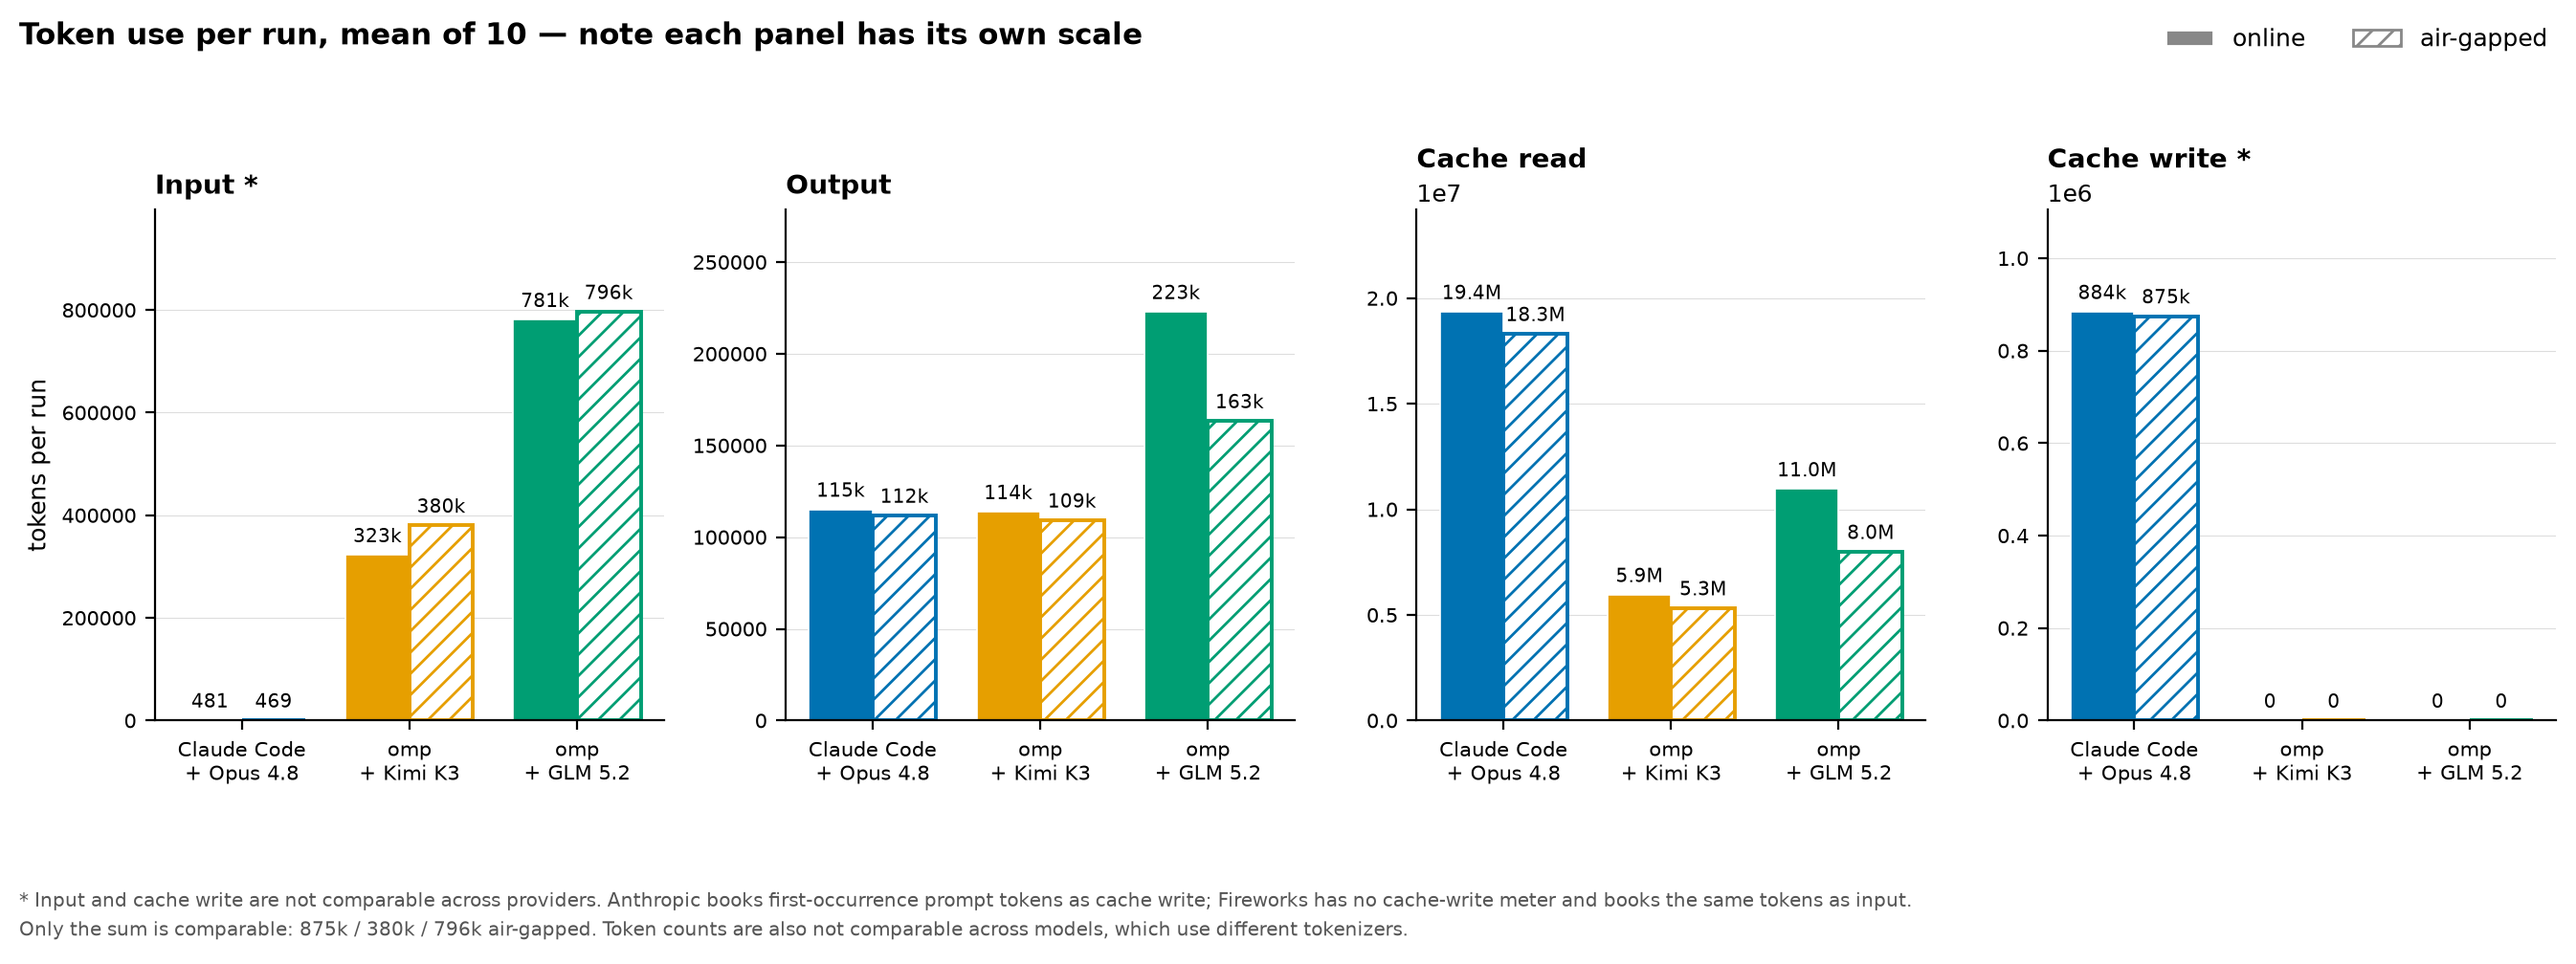
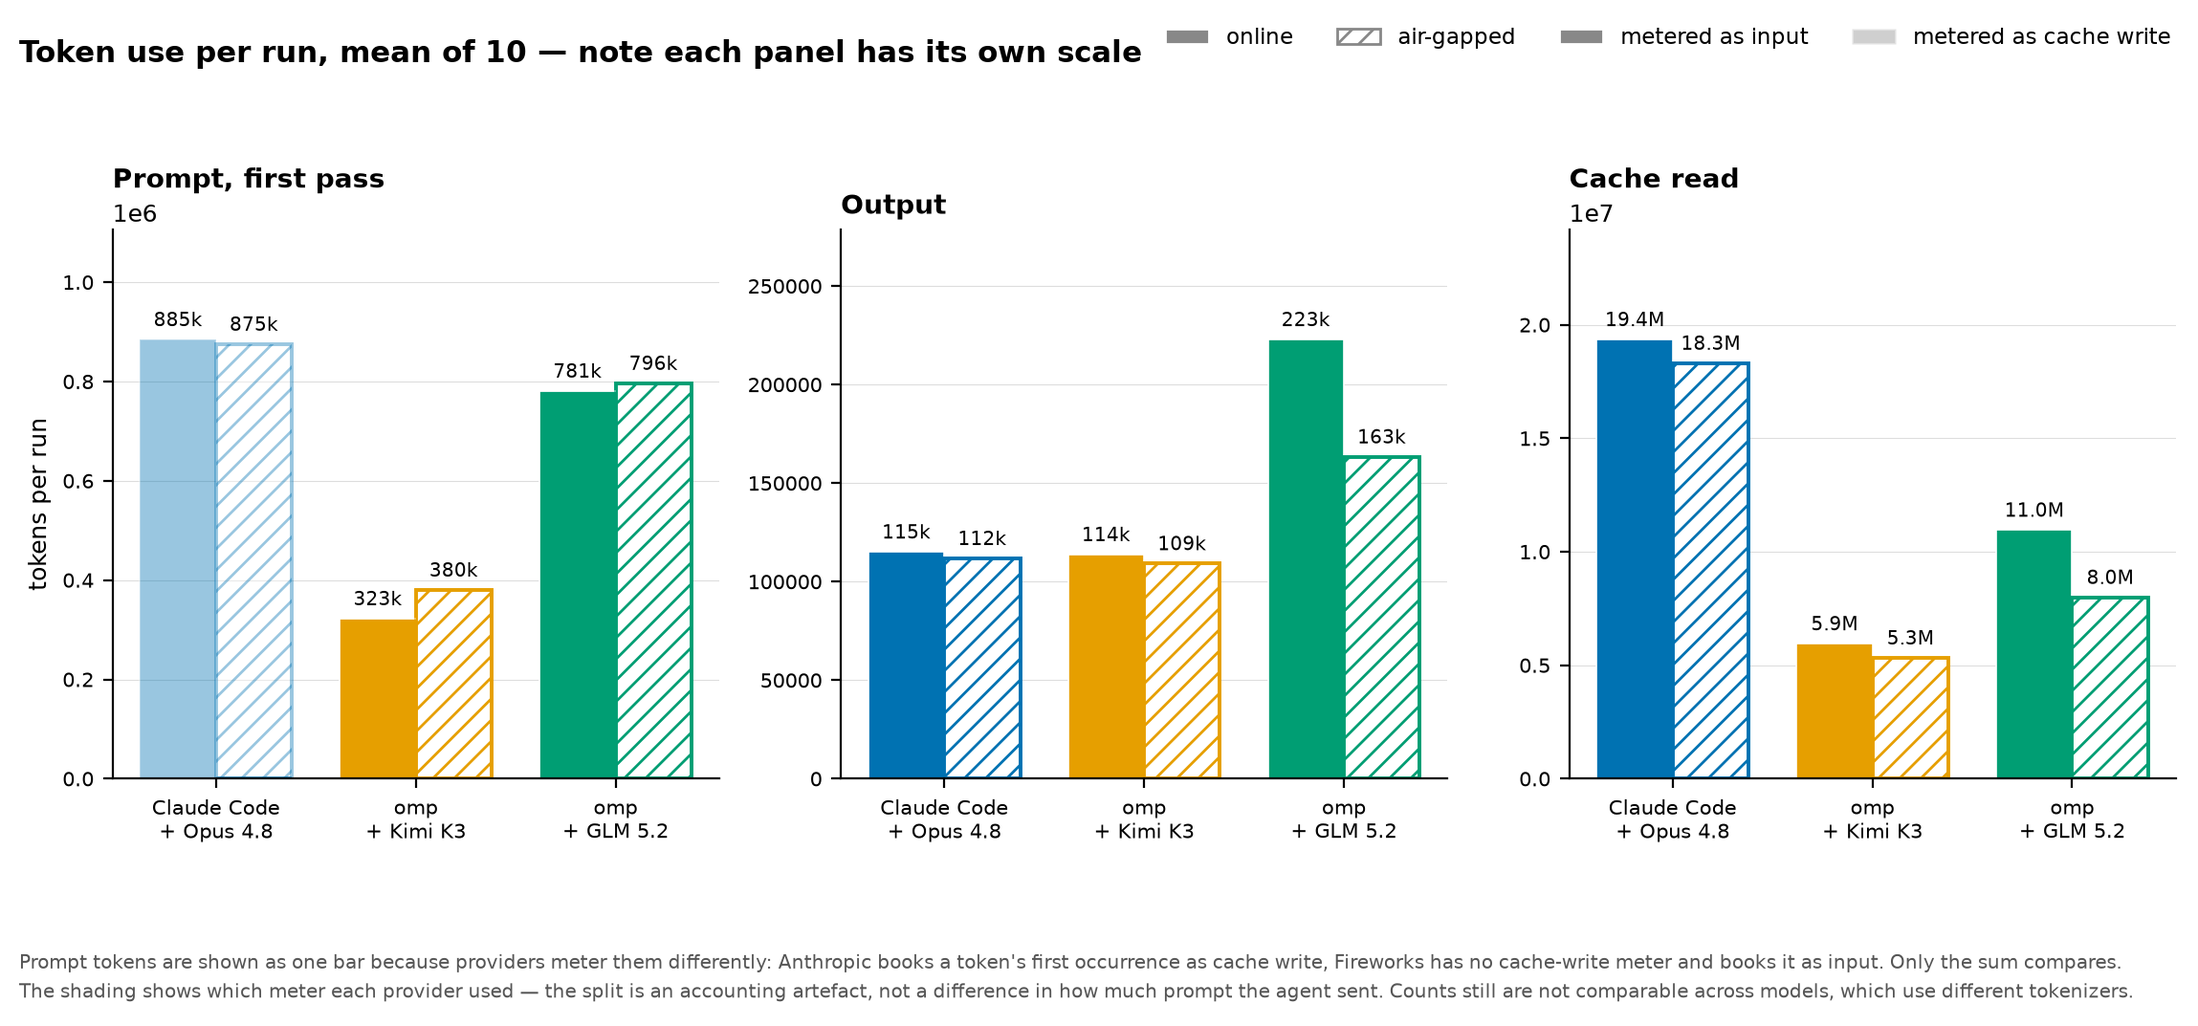
Combine input + cache write into one prompt bar, shaded by meter

diff --git a/make_token_figure.py b/make_token_figure.py
@@ -25,13 +25,19 @@ mpl.rcParams.update({
 CONFIGS = ["Claude Code\n+ Opus 4.8", "omp\n+ Kimi K3", "omp\n+ GLM 5.2"]
 COLOR = ["#0072B2", "#E69F00", "#009E73"]
 
-# per run, mean of 10.  (title, online triple, air-gapped triple)
+# per run, mean of 10.
+# Input and cache write are combined: they are the same thing accounted differently.
+# Anthropic books a prompt token's first occurrence as cache write; Fireworks has no
+# cache-write meter and books it as input. Shown separately they suggest Opus sends a
+# 469-token prompt, which is an artefact of the meter, not a fact about the model.
+INPUT_ON,  INPUT_AIR  = [481, 322_518, 780_949],  [469, 380_144, 796_482]
+CWRITE_ON, CWRITE_AIR = [884_136, 0, 0],          [874_857, 0, 0]
+
 PANELS = [
-    ("Input *",      [481, 322_518, 780_949],        [469, 380_144, 796_482]),
+    ("Prompt, first pass", None, None),          # stacked: input + cache write
     ("Output",       [115_079, 113_776, 222_867],    [111_778, 109_177, 163_352]),
     ("Cache read",   [19_352_234, 5_949_713, 10_954_975],
                      [18_309_951, 5_324_243, 7_992_347]),
-    ("Cache write *", [884_136, 0, 0],               [874_857, 0, 0]),
 ]
 
 
@@ -45,13 +51,25 @@ def fmt(v):
     return f"{v:g}"
 
 
-fig, axes = plt.subplots(1, 4, figsize=(13.5, 3.9))
+fig, axes = plt.subplots(1, 3, figsize=(11.5, 4.1))
 x = np.arange(3)
 w = 0.38
 
 for ax, (title, online, air) in zip(axes, PANELS):
-    ax.bar(x - w/2, online, w, color=COLOR, edgecolor="white", linewidth=0.6)
-    ax.bar(x + w/2, air, w, color="white", edgecolor=COLOR, linewidth=1.4, hatch="///")
+    if online is None:                      # the stacked prompt panel
+        online = [i + c for i, c in zip(INPUT_ON, CWRITE_ON)]
+        air    = [i + c for i, c in zip(INPUT_AIR, CWRITE_AIR)]
+        # lower segment = tokens the provider meters as input
+        ax.bar(x - w/2, INPUT_ON, w, color=COLOR, edgecolor="white", linewidth=0.6)
+        ax.bar(x + w/2, INPUT_AIR, w, color="white", edgecolor=COLOR, linewidth=1.4, hatch="///")
+        # upper segment = tokens metered as cache write (Anthropic only)
+        ax.bar(x - w/2, CWRITE_ON, w, bottom=INPUT_ON, color=COLOR, alpha=0.40,
+               edgecolor="white", linewidth=0.6)
+        ax.bar(x + w/2, CWRITE_AIR, w, bottom=INPUT_AIR, color="white", alpha=0.40,
+               edgecolor=COLOR, linewidth=1.4, hatch="///")
+    else:
+        ax.bar(x - w/2, online, w, color=COLOR, edgecolor="white", linewidth=0.6)
+        ax.bar(x + w/2, air, w, color="white", edgecolor=COLOR, linewidth=1.4, hatch="///")
     top = max(max(online), max(air))
     for xi, (o, a) in enumerate(zip(online, air)):
         ax.text(xi - w/2, o + top*0.02, fmt(o), ha="center", va="bottom", fontsize=7.2)
@@ -67,15 +85,17 @@ for ax, (title, online, air) in zip(axes, PANELS):
 axes[0].set_ylabel("tokens per run")
 
 fig.legend(handles=[Patch(facecolor="#888888", edgecolor="white", label="online"),
-                    Patch(facecolor="white", edgecolor="#888888", hatch="///",
-                          label="air-gapped")],
-           frameon=False, ncol=2, loc="upper right", bbox_to_anchor=(0.995, 1.08),
-           fontsize=9)
+                    Patch(facecolor="white", edgecolor="#888888", hatch="///", label="air-gapped"),
+                    Patch(facecolor="#888888", edgecolor="white", label="metered as input"),
+                    Patch(facecolor="#888888", alpha=0.40, edgecolor="white",
+                          label="metered as cache write")],
+           frameon=False, ncol=4, loc="upper right", bbox_to_anchor=(0.995, 1.10),
+           fontsize=8.2)
 fig.suptitle("Token use per run, mean of 10 — note each panel has its own scale",
              x=0.008, ha="left", fontsize=11, fontweight="bold", y=1.06)
 fig.text(0.008, -0.10,
-         "* Input and cache write are not comparable across providers. Anthropic books first-occurrence prompt tokens as cache write; Fireworks has no cache-write meter and books the same tokens as input.\n"
-         "Only the sum is comparable: 875k / 380k / 796k air-gapped. Token counts are also not comparable across models, which use different tokenizers.",
+         "Prompt tokens are shown as one bar because providers meter them differently: Anthropic books a token's first occurrence as cache write, Fireworks has no cache-write meter and books it as input. Only the sum compares.\n"
+         "The shading shows which meter each provider used — the split is an accounting artefact, not a difference in how much prompt the agent sent. Counts still are not comparable across models, which use different tokenizers.",
          ha="left", va="top", fontsize=7.3, color="#555555", linespacing=1.5)
 fig.tight_layout()
 fig.savefig("token-usage.png", bbox_inches="tight", facecolor="white")

diff --git a/index.md b/index.md
@@ -33,7 +33,9 @@ Cache reads dominate everything, because an agent loop re-sends its whole conver
 
 Air-gapped uses slightly **fewer** tokens across the board — the same pattern as runtime, and for the same reason: fewer, cheaper literature round-trips.
 
-Two things make the raw counts non-comparable. Each model uses a **different tokenizer**. And Anthropic books first-occurrence prompt tokens as *cache write* where Fireworks has no cache-write meter and books them as *input* — so the Opus input bar is an accounting convention, not efficiency. Add input + cache write and the three are 875k / 380k / 796k.
+**Input and cache write are shown as one bar** because they are the same quantity metered two ways: Anthropic books a prompt token's first occurrence as *cache write*, Fireworks has no cache-write meter and books it as *input*. Split apart they imply Claude Code + Opus sends a 469-token prompt, which is an artefact of the meter rather than a fact about the model. The shading shows which meter each provider used — Opus books 884k of its 885k prompt tokens as cache write; both omp configs book all of theirs as input.
+
+Counts are still **not comparable across models**, which use different tokenizers. The useful comparison is within a model, between modes.
 
 ---
 
